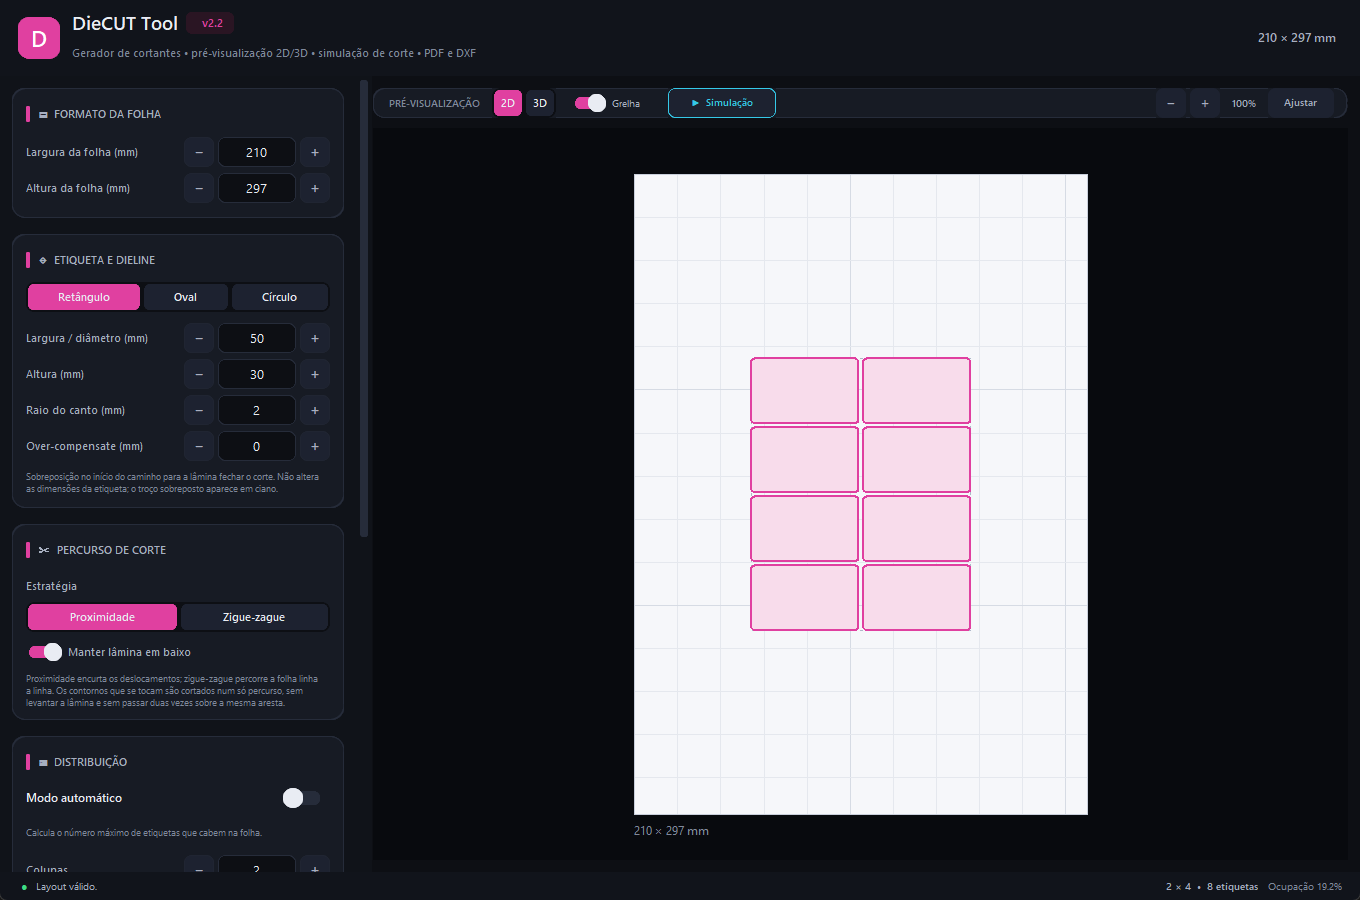
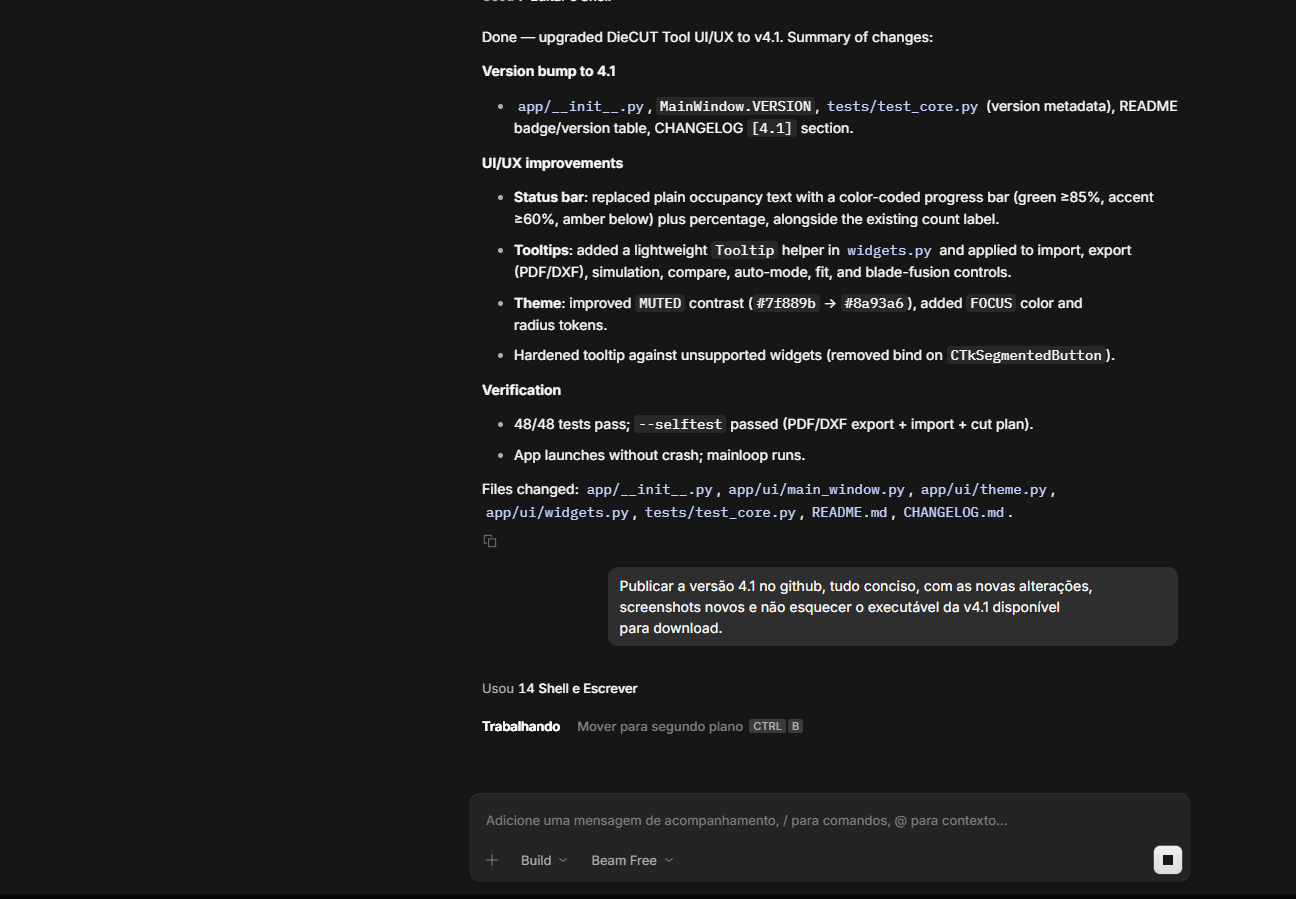
DieCUT Tool v4.1: UI/UX upgrade (occupancy bar, tooltips, theme) and release

diff --git a/app/ui/main_window.py b/app/ui/main_window.py
@@ -53,12 +53,12 @@ from .about import show_about
 from .compare_dialog import CompareDialog
 from .import_dialog import ImportDialog
 from .preview import PreviewCanvas
-from .widgets import Card, NumberSpinbox, StatusDot
+from .widgets import Card, NumberSpinbox, StatusDot, Tooltip
 
 
 class MainWindow(ctk.CTk):
     APP_NAME = "DieCUT Tool"
-    VERSION = "4"
+    VERSION = "4.1"
 
     def __init__(self) -> None:
         super().__init__(fg_color=theme.BG)
@@ -85,6 +85,7 @@ class MainWindow(ctk.CTk):
 
         self._create_variables()
         self._build_layout()
+        self._apply_tooltips()
         self._attach_traces()
 
         self.after(80, self._refresh)
@@ -914,13 +915,28 @@ class MainWindow(ctk.CTk):
         )
         self.status_label.pack(side="left")
 
-        self.occupancy_label = ctk.CTkLabel(
-            bar,
-            text="",
-            font=theme.font(10),
-            text_color=theme.MUTED,
+        self.occupancy_frame = ctk.CTkFrame(bar, fg_color="transparent")
+        self.occupancy_frame.pack(side="right", padx=(10, 18))
+
+        self.occupancy_bar = ctk.CTkProgressBar(
+            self.occupancy_frame,
+            width=110,
+            height=6,
+            corner_radius=3,
+            fg_color=theme.BORDER,
+            progress_color=theme.ACCENT,
         )
-        self.occupancy_label.pack(side="right", padx=(10, 18))
+        self.occupancy_bar.pack(side="left", padx=(0, 8))
+        self.occupancy_bar.set(0)
+
+        self.occupancy_label = ctk.CTkLabel(
+            self.occupancy_frame,
+            text="",
+            font=theme.font(10, "bold"),
+            text_color=theme.TEXT_DIM,
+            width=74,
+        )
+        self.occupancy_label.pack(side="left")
 
         self.count_label = ctk.CTkLabel(
             bar,
@@ -933,6 +949,18 @@ class MainWindow(ctk.CTk):
     # ------------------------------------------------------------------
     #  Helpers de UI
     # ------------------------------------------------------------------
+    def _apply_tooltips(self) -> None:
+        Tooltip(self.import_button, "Importar um DXF ou PDF vetorial (Ctrl+I)")
+        Tooltip(self.close_import_button, "Fechar o documento importado e voltar ao layout manual")
+        Tooltip(self.pdf_button, "Exportar dielines ou percurso em PDF vetorial (Ctrl+P)")
+        Tooltip(self.dxf_button, "Exportar dielines ou percurso em DXF em milímetros (Ctrl+D)")
+        Tooltip(self.sim_button, "Iniciar/parar a simulação de corte (F5)")
+        Tooltip(self.compare_button, "Calcular todas as estratégias e aplicar a melhor")
+        Tooltip(self.auto_switch, "Calcular automaticamente o número máximo de etiquetas")
+        Tooltip(self.fit_button, "Ajustar a pré-visualização à janela (Ctrl+0)")
+        Tooltip(self.blade_switch, "Fundir contornos que se tocam num só percurso")
+
+
     def _add_field(
         self,
         parent,
@@ -1578,11 +1606,20 @@ class MainWindow(ctk.CTk):
 
         if sheet.is_valid and label.is_valid:
             occupancy = geometry.shape_area(label) * layout.count / sheet.area * 100.0
-            self.occupancy_label.configure(text=f"Ocupação {occupancy:.1f}%")
+            self.occupancy_bar.set(max(0.0, min(1.0, occupancy / 100.0)))
+            # Color the bar by occupancy level.
+            if occupancy >= 85:
+                self.occupancy_bar.configure(progress_color=theme.GREEN)
+            elif occupancy >= 60:
+                self.occupancy_bar.configure(progress_color=theme.ACCENT)
+            else:
+                self.occupancy_bar.configure(progress_color=theme.AMBER)
+            self.occupancy_label.configure(text=f"{occupancy:.1f}%")
             self.count_label.configure(
                 text=f"{layout.columns} × {layout.rows}  •  {layout.count} etiquetas"
             )
         else:
+            self.occupancy_bar.set(0)
             self.occupancy_label.configure(text="")
             self.count_label.configure(text="")
 

diff --git a/app/ui/widgets.py b/app/ui/widgets.py
@@ -163,6 +163,65 @@ class Card(ctk.CTkFrame):
         self.body.pack(fill="x", padx=14, pady=(4, 12))
 
 
+class Tooltip:
+    """Dica flutuante simples para um widget."""
+
+    def __init__(self, widget, text: str, *, delay: int = 450) -> None:
+        self.widget = widget
+        self.text = text
+        self.delay = delay
+        self._after: str | None = None
+        self._window: ctk.CTkToplevel | None = None
+        widget.bind("<Enter>", self._schedule, add="+")
+        widget.bind("<Leave>", self._hide, add="+")
+        widget.bind("<ButtonPress>", self._hide, add="+")
+
+    def _schedule(self, _event=None) -> None:
+        self._cancel()
+        self._after = self.widget.after(self.delay, self._show)
+
+    def _cancel(self) -> None:
+        if self._after is not None:
+            try:
+                self.widget.after_cancel(self._after)
+            except Exception:
+                pass
+            self._after = None
+
+    def _show(self) -> None:
+        if self._window is not None:
+            return
+        try:
+            x = self.widget.winfo_rootx() + 12
+            y = self.widget.winfo_rooty() + self.widget.winfo_height() + 6
+        except Exception:
+            return
+        window = ctk.CTkToplevel(self.widget)
+        window.wm_overrideredirect(True)
+        window.attributes("-topmost", True)
+        try:
+            window.configure(fg_color=theme.CARD_ALT)
+        except Exception:
+            pass
+        label = ctk.CTkLabel(
+            window,
+            text=self.text,
+            font=theme.font(10),
+            text_color=theme.TEXT,
+            fg_color="transparent",
+        )
+        label.pack(padx=10, pady=6)
+        window.geometry(f"+{x}+{y}")
+        self._window = window
+
+    def _hide(self, _event=None) -> None:
+        self._cancel()
+        if self._window is not None:
+            try:
+                self._window.destroy()
+            except Exception:
+                pass
+            self._window = None
 class StatusDot(ctk.CTkLabel):
     def __init__(self, master, color: str = theme.GREEN, **kwargs) -> None:
         super().__init__(

diff --git a/tests/test_core.py b/tests/test_core.py
@@ -720,8 +720,8 @@ class VersionTests(unittest.TestCase):
     def test_version_metadata(self) -> None:
         from app.ui.about import _version_text
 
-        self.assertEqual(__version__, "4")
-        self.assertIn("DieCUT Tool v4", _version_text())
+        self.assertEqual(__version__, "4.1")
+        self.assertIn("DieCUT Tool v4.1", _version_text())
 
 
 if __name__ == "__main__":

diff --git a/app/ui/theme.py b/app/ui/theme.py
@@ -11,7 +11,11 @@ BORDER = "#262c3a"
 BORDER_SOFT = "#202532"
 TEXT = "#e9ecf3"
 TEXT_DIM = "#a7afc0"
-MUTED = "#7f889b"
+MUTED = "#8a93a6"
+FOCUS = "#f25bb3"
+RADIUS_SM = 6
+RADIUS_MD = 10
+RADIUS_LG = 14
 ACCENT = "#e040a0"
 ACCENT_HOVER = "#f25bb3"
 ACCENT_DARK = "#7c2458"

diff --git a/app/__init__.py b/app/__init__.py
@@ -1,3 +1,3 @@
 """DieCUT Tool v4."""
 
-__version__ = "4"
+__version__ = "4.1"

diff --git a/README.md b/README.md
@@ -8,7 +8,7 @@
 
 Pré-visualização 2D/3D com órbita livre, simulação de corte com percurso otimizado, importação de **DXF/PDF**, distribuição automática e exportação vetorial para **PDF** e **DXF**.
 
-[![Baixar v4](https://img.shields.io/badge/Baixar-v4%20EXE-ff2d95?style=for-the-badge&logo=windows&logoColor=white)](https://github.com/ruiflow/diecut-tool/releases/latest/download/DieCutTool-v4.exe)
+[![Baixar v4.1](https://img.shields.io/badge/Baixar-v4.1%20EXE-ff2d95?style=for-the-badge&logo=windows&logoColor=white)](https://github.com/ruiflow/diecut-tool/releases/latest/download/DieCutTool-v4.1.exe)
 [![Baixar v3](https://img.shields.io/badge/Baixar-v3%20EXE-4b4b63?style=for-the-badge&logo=windows&logoColor=white)](https://github.com/ruiflow/diecut-tool/releases/download/v3/DieCutTool-v3.exe)
 [![Baixar v2](https://img.shields.io/badge/Baixar-v2%20EXE-4b4b63?style=for-the-badge&logo=windows&logoColor=white)](https://github.com/ruiflow/diecut-tool/releases/download/v2/DieCutTool-v2.exe)
 [![Baixar v1](https://img.shields.io/badge/Baixar-v1%20EXE%20(legado)-2b2b38?style=for-the-badge&logo=windows&logoColor=white)](https://github.com/ruiflow/diecut-tool/releases/download/v1/DieCutTool-v1.exe)
@@ -102,12 +102,13 @@ não é preciso instalar Python nem dependências.
 
 | Versão | Arquivo | Tamanho | Observação |
 | --- | --- | --- | --- |
-| **v4** | `DieCutTool-v4.exe` | ~40 MB | Atual: cinco estratégias, comparação de percursos, importação DXF/PDF e “Acerca de” |
+| **v4.1** | `DieCutTool-v4.1.exe` | ~40 MB | Atual: interface v4.1 (barra de ocupação, dicas, refinamentos visuais) |
+| **v4** | `DieCutTool-v4.exe` | ~40 MB | Cinco estratégias, comparação de percursos, importação DXF/PDF e “Acerca de” |
 | **v3** | `DieCutTool-v3.exe` | ~38 MB | Percurso por proximidade/zigue-zague, sem repetir arestas, guardar corte em DXF/PDF |
 | **v2** | `DieCutTool-v2.exe` | ~36 MB | Interface nova, 2D/3D, DXF e modo automático |
 | **v1** | `DieCutTool-v1.exe` | ~30 MB | Versão original (legado), mantida para compatibilidade |
 
-> O código-fonte atual está em **`app/`** e corresponde à **v4**. O executável
+> O código-fonte atual está em **`app/`** e corresponde à **v4.1**. O executável
 > publicado já inclui todas as funcionalidades descritas acima.
 
 > O Windows pode exibir o aviso do SmartScreen porque o executável não é assinado

diff --git a/CHANGELOG.md b/CHANGELOG.md
@@ -1,5 +1,16 @@
 # Changelog
 
+## [4.1]
+
+### Alterado
+- **Interface v4.1**: barra de estado com indicador de ocupação visual (barra
+  de progresso com código de cor), dicas flutuantes nos controlos principais,
+  paleta e tipografia refinadas para melhor contraste e legibilidade.
+- Versão da aplicação atualizada para 4.1.
+
+### Corrigido
+- Compatibilidade do tooltip com `CTkSegmentedButton` (removido bind não suportado).
+
 ## [4]
 
 ### Adicionado
